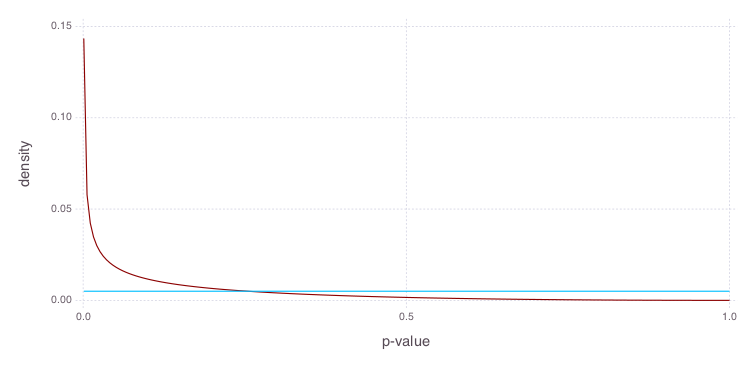
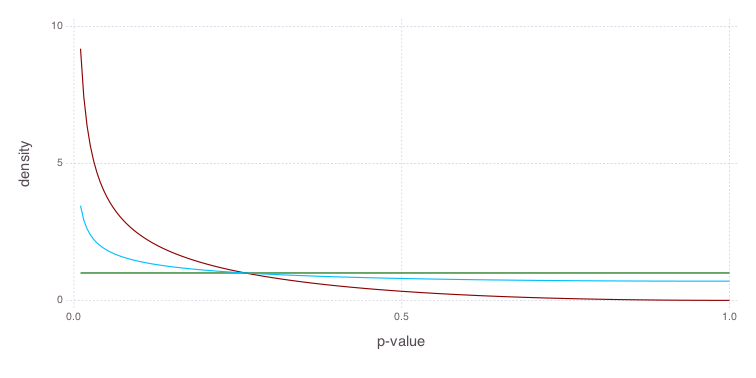
Notebook with BUM model

diff --git a/doc/notebooks/pi0-estimation.md b/doc/notebooks/pi0-estimation.md
@@ -22,41 +22,43 @@ We will simulate p-values under the null and alternative hypothesis by drawing f
 
 
 ```julia
-distr_h0 = Uniform()
-distr_h1 = Beta(0.5, 3)
+π0 = 0.7
+bum = BetaUniformMixtureModel(π0, 0.5, 3.0)
 ```
 
 
 
 
-    Distributions.Beta(α=0.5, β=3.0)
+    MixtureModel{Distributions.Distribution{Distributions.Univariate,Distributions.Continuous}}(K = 2)
+    components[1] (prior = 0.3000): Distributions.Beta(α=0.5, β=3.0)
+    components[2] (prior = 0.7000): Distributions.Uniform(a=0.0, b=1.0)
+
 
 
 
 
 ```julia
-simulate_mixed_pvalues(d1, n1, d2, n2) = [rand(d1, n1); rand(d2, n2)]
+h1, h0 = components(bum);
 ```
-
-
-
-
-    simulate_mixed_pvalues (generic function with 1 method)
-
-
 
 
 ```julia
-x = linspace(0.001, 1.0, 200)
-pdf_h0 = pdf(distr_h0, x);
-pdf_h1 = pdf(distr_h1, x);
+x = linspace(0.01, 1.0, 200)
 ```
+
+
+
+
+    linspace(0.01,1.0,200)
+
+
 
 
 ```julia
 p = plot(
-    layer(x = x, y = pdf_h0/sum(pdf_h0), Geom.line),
-    layer(x = x, y = pdf_h1/sum(pdf_h1), Geom.line, Theme(default_color = colorant"darkred")),
+    layer(x = x, y = pdf(bum, x), Geom.line),
+    layer(x = x, y = pdf(h0, x), Geom.line, Theme(default_color = colorant"darkgreen")),
+    layer(x = x, y = pdf(h1, x), Geom.line, Theme(default_color = colorant"darkred")),
     Guide.xlabel("p-value"), Guide.ylabel("density")
 )
 draw(PNG(20cm, 10cm), p)
@@ -84,9 +86,6 @@ estimators = ["Storey",
 
 
 ```julia
-n0 = 400
-n1 = 100
-pi0 = n0/(n0+n1)
 m = 500
 ```
 
@@ -101,17 +100,12 @@ m = 500
 ```julia
 pi0hat = zeros(m, length(estimators))
 for i in 1:m
-    pvals = simulate_mixed_pvalues(distr_h0, n0, distr_h1, n1)
+    pvals = rand(bum, m)
     for (j, e) in enumerate(estimators)
         pi0estimator = call(eval(parse(e)))
         pi0hat[i,j] = estimate_pi0(pvals, pi0estimator)
     end
 end
-```
-
-
-```julia
-pi0hat[isnan(pi0hat)] = 1.0;
 ```
 
 
@@ -125,14 +119,10 @@ names!(df, [:estimator, :pi0hat]);
 
 ```julia
 p = plot(
-    layer(yintercept = [pi0], Geom.hline(color = colorant"black")),
+    layer(yintercept = [π0], Geom.hline(color = colorant"black")),
     layer(df, x = "estimator", y = "pi0hat", color = "estimator", Geom.boxplot)
 )
 draw(PNG(20cm, 10cm), p)
 ```
-
-
-![png](pi0-estimation_files/pi0-estimation_17_0.png)
-
 
 Visualizing the estimated π0 for the three estimators shows us a typical bias-variance tradeoff: The bootstrap has a small bias with regard to the true value (black horizontal line), but exhibits a large degree of variablity. In contrast, the two step estimator has the lowest spread, while clearly overestimating π0.
